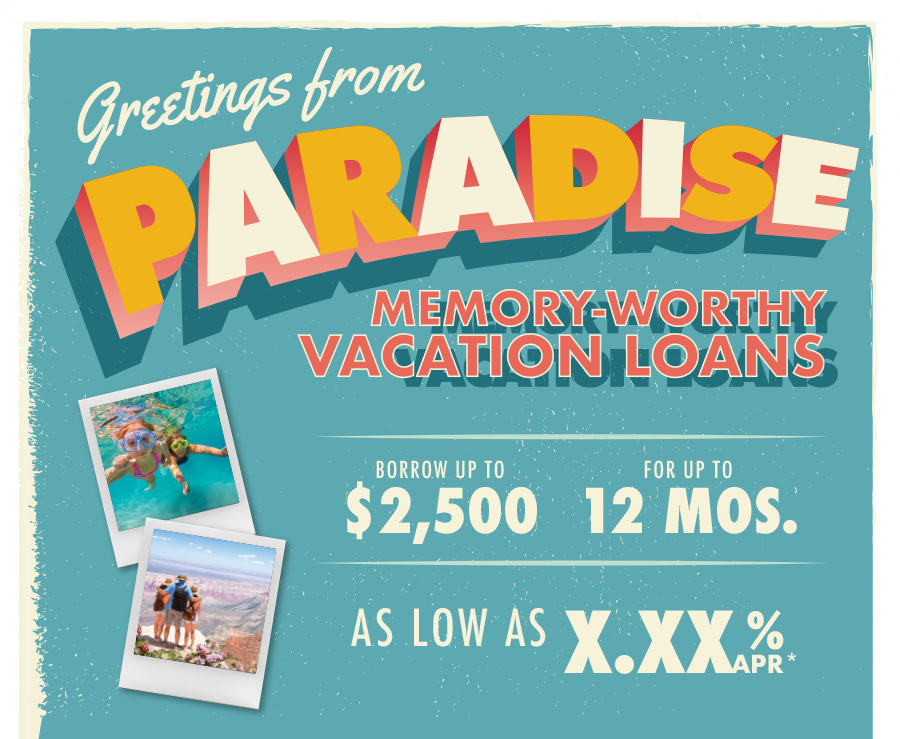
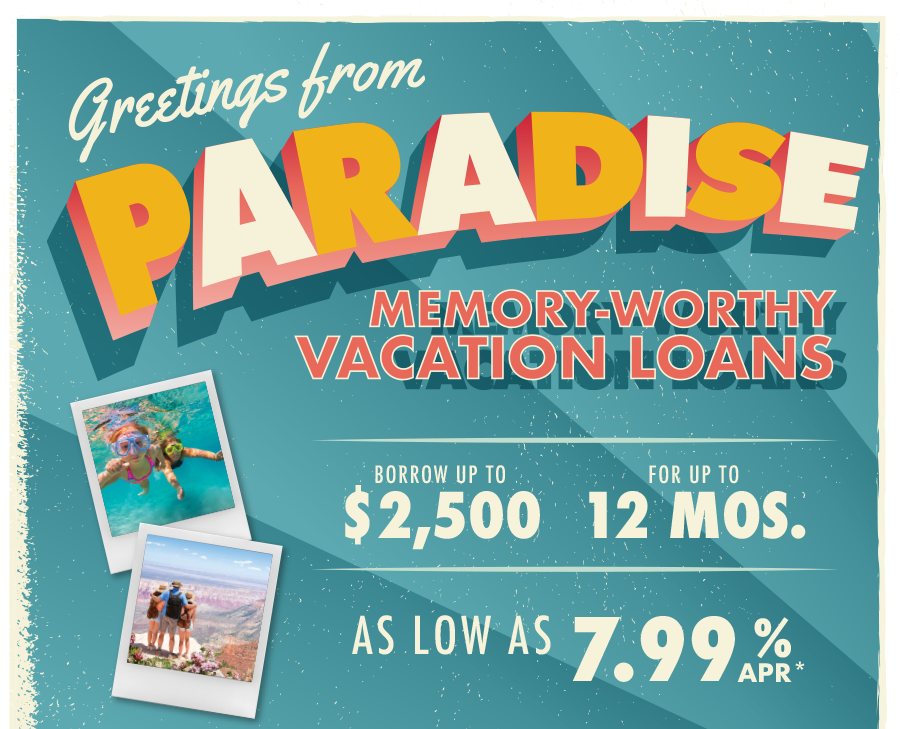
Update rate in calculator, footer, and the header image.

diff --git a/index.html b/index.html
@@ -68,8 +68,8 @@
 							</div>
 							<div class="fourty">
 								<input type="hidden" name="term" value="3y" />
-								<p><label for="rate1">Current Rate</label><input type="text" id="rate1" placeholder="7.99" class="rate percent" /></p>
-								<input type="hidden" class="rate_compare" value="2.99" />
+								<p><label for="rate1">Current Rate</label><input type="text" id="rate1" placeholder="9.99%" class="rate percent" /></p>
+								<input type="hidden" class="rate_compare" value="7.99" />
 							</div>
 						</div>
 
@@ -105,7 +105,7 @@
 			<div class="fourty"><a href="https://www.google.com/maps/place/260+N+Green+Bay+Rd,+Neenah,+WI+54956/@44.1941566,-88.4879277,17z/data=!3m1!4b1!4m5!3m4!1s0x8803c77bc86fcbdd:0x9187003e1a72b659!8m2!3d44.1941528!4d-88.485739" target="_blank"><img src="img/contact-address.png" alt="Street Address: 260 N Green Bay Rd, Neenah, WI 54956" /> 260 N Green Bay Rd, Neenah, WI 54956</a></div>
 		</div>
 
-		<div class="disclaimer wrap">*APR= Annual Percentage Rate. Rate and offer subject to change at anytime without notice. Membership required. Qualifications apply. One loan special per member. Terms and Conditions cannot be modified.  **This calculator is intended to help you analyze your financial needs and/or provide approximate information about loan payments; it does not constitute an offer to extend credit. This credit union is federally insured by the National Credit Union Administration. </div>
+		<div class="disclaimer wrap">* APR= Annual Percentage Rate. Rate and offer subject to change at anytime without notice. Membership required. Qualifications apply. One loan special per member. Terms and Conditions cannot be modified.  **This calculator is intended to help you analyze your financial needs and/or provide approximate information about loan payments; it does not constitute an offer to extend credit. This credit union is federally insured by the National Credit Union Administration. </div>
 	</main>
 	<script src="//ajax.googleapis.com/ajax/libs/jquery/1.11.2/jquery.min.js?v=1"></script>
 	<script src="js/main.js"></script>
